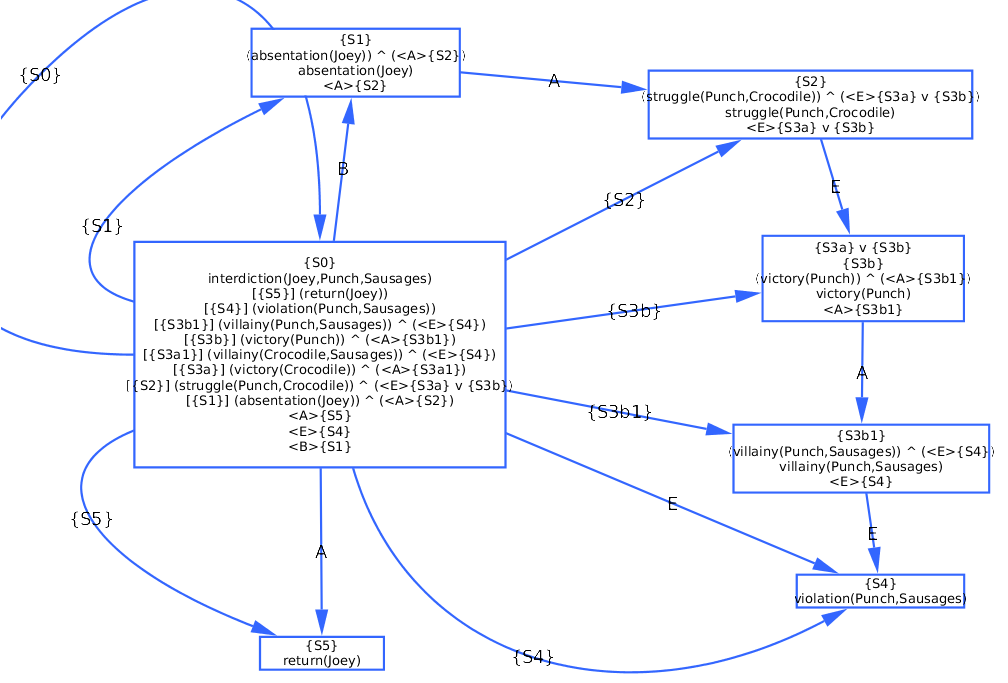
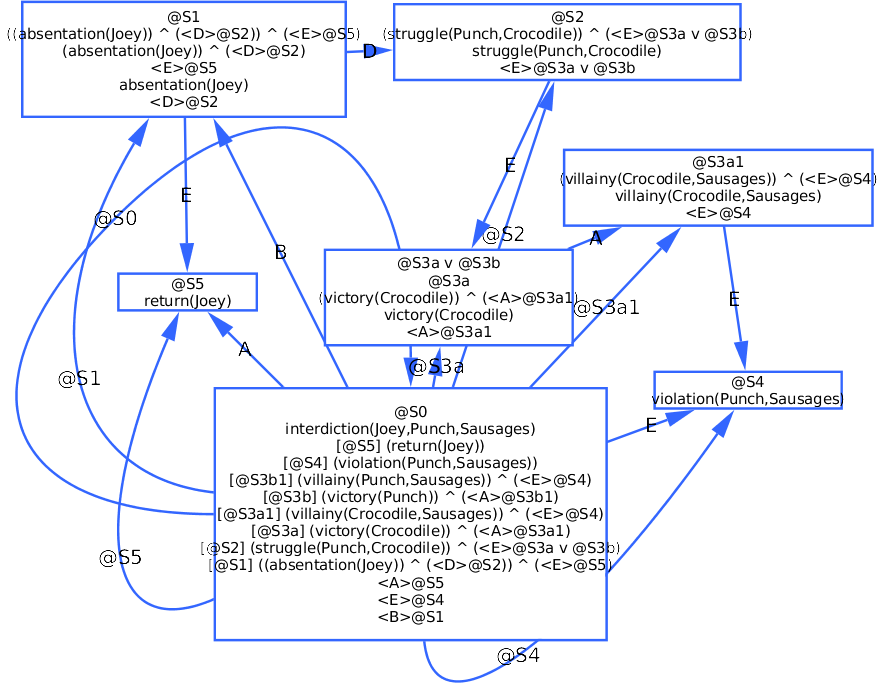
Updated image and nominal symbol.

diff --git a/icids-2015.tex b/icids-2015.tex
@@ -41,8 +41,7 @@
 
 % Long paper page limit: 12 pages
 
-\title{Describing Possible Narrative Worlds with Interval Temporal Logic and Kripke Models}
-
+\title{Reasoning Over Story Functions with Modal Logic}
 
 \author{Matt Thompson\inst{1,}\inst{2} \and Steve Battle\inst{2} \and Julian Padget\inst{1} }
 \institute{Department of Computer Science,\\
@@ -74,6 +73,7 @@ An approach that we have explored is to model the narrative as an institution of
 Other approaches to balancing authorial control with player or character agency include the use of director agents \cite{lee2011learning}, reincorporation of player actions back into the narrative \cite{tomaszewski2011use} and mediation to prevent narrative-breaking actions \cite{robertson2013modelling}.
 
 \mnote{Need to include all the work done with planners (Riedl, Young, etc) here}
+\mnote{Put all this later, compare our approach with what's out there already}
 
 In this paper we describe the use of modal logic, Interval Temporal Logic \cite{della2013interval}, and Kripke models \cite{kripke1963semantical} to describe the many paths which a narrative can take.
 
@@ -185,28 +185,27 @@ In this example, we combine Halpern and Shoham's temporal operators with the pos
 
 This example shows the ``sausages'' scene described in section \ref{sec:pjexample}, consisting of a set of situations $S$, containing Propp story functions $P$. The interval temporal logic operators used in this example are the set $T$.
 
+\mnote{Explain how ITL enables nesting (before, after), and how these can be reusable components}
 \begin{align}
     S &= \{S_0, S_1, S_2, S_{3a}, S_{3a_1}, S_4, S_{3b}, S_{3b_1}, S_4, S_5\}\\
     P &= \{\mathtt{interdiction(A, B, C), absentation(A), struggle(A, B),}\nonumber\\
   &\qquad\qquad\mathtt{victory(A), villainy(A, B), violation(A, B), return(A)}\}\\
-    T &= \{A, B, E\}
+  T &= \{D, \overline{D}, O, \overline{O}, A, \overline{A}, B, \overline{B}, L, \overline{L}, E, \overline{E}\}
 \end{align}
 
-We use hybrid logic to identify nodes using the \emph{nominal} operator, shown as $\{\,\}$. 
-
+We use hybrid logic to identify nodes using the \emph{nominal} operator, shown as $@$. 
 \begin{align}
   &S_{0} \land \mathit{interdiction(Joey, Punch, Sausages)} \land\nonumber\\
-  &\qquad\qquad\qquad\qquad\qquad\langle B \rangle \{S_{1}\} \land \langle E \rangle \{S_{4}\} \land \langle A \rangle \{S_{5}\}\\
-  &[\{S_{1}\}] \mathit{absentation(Joey)} \land \langle A \rangle \{S_{2}\}\\
-  &[\{S_{2}\}] \mathit{struggle(Punch, Crocodile)} \land \langle E \rangle (\{S_{3a}\} \lor \{S_{3b}\})\\
-  &[\{S_{3a}\}] \mathit{victory(Crocodile)} \land \langle A \rangle \{S_{3a_1}\}\\
-  &[\{S_{3a_1}\}] \mathit{villainy(Crocodile, Sausages)} \land \langle E \rangle \{S_{4}\}\\
-  &[\{S_{3b}\}] \mathit{victory(Punch)} \land \langle A \rangle \{S_{3b_1}\}\\
-  &[\{S_{3b_1}\}] \mathit{villainy(Punch, Sausages)} \land \langle E \rangle \{S_{4}\}\\
-  &[\{S_{4}\}] \mathit{violation(Punch, Sausages)}\\
-  &[\{S_{5}\}] \mathit{return(Joey)}
+  &\qquad\qquad\qquad\qquad\qquad\langle B \rangle @S_{1} \land \langle E \rangle @S_{4} \land \langle A \rangle @S_{5}\\
+  &[@S_{1}] \mathit{absentation(Joey)} \land \langle A \rangle @S_{2}\\
+  &[@S_{2}] \mathit{struggle(Punch, Crocodile)} \land \langle E \rangle (@S_{3a} \lor @S_{3b})\\
+  &[@S_{3a}] \mathit{victory(Crocodile)} \land \langle A \rangle @S_{3a_1}\\
+  &[@S_{3a_1}] \mathit{villainy(Crocodile, Sausages)} \land \langle E \rangle @S_{4}\\
+  &[@S_{3b}] \mathit{victory(Punch)} \land \langle A \rangle @S_{3b_1}\\
+  &[@S_{3b_1}] \mathit{villainy(Punch, Sausages)} \land \langle E \rangle @S_{4}\\
+  &[@S_{4}] \mathit{violation(Punch, Sausages)}\\
+  &[@S_{5}] \mathit{return(Joey)}
 \end{align}
-
 
 
 \section{Describing Punch and Judy with Kripke Structures}\label{sec:kripke}
@@ -219,7 +218,7 @@ LoTREC \cite{del2001lotrec} is a generic tableau prover for modal and descriptio
 
 \begin{figure}[!t]\label{fig:kripke}
   \centering
-    \centerline{\includegraphics[height=3in]{kripke.png}}
+    \centerline{\includegraphics[width=1.0\textwidth]{kripke.png}}
   \caption{One premodel from the sausages scene in LoTREC}
 \end{figure}
 
